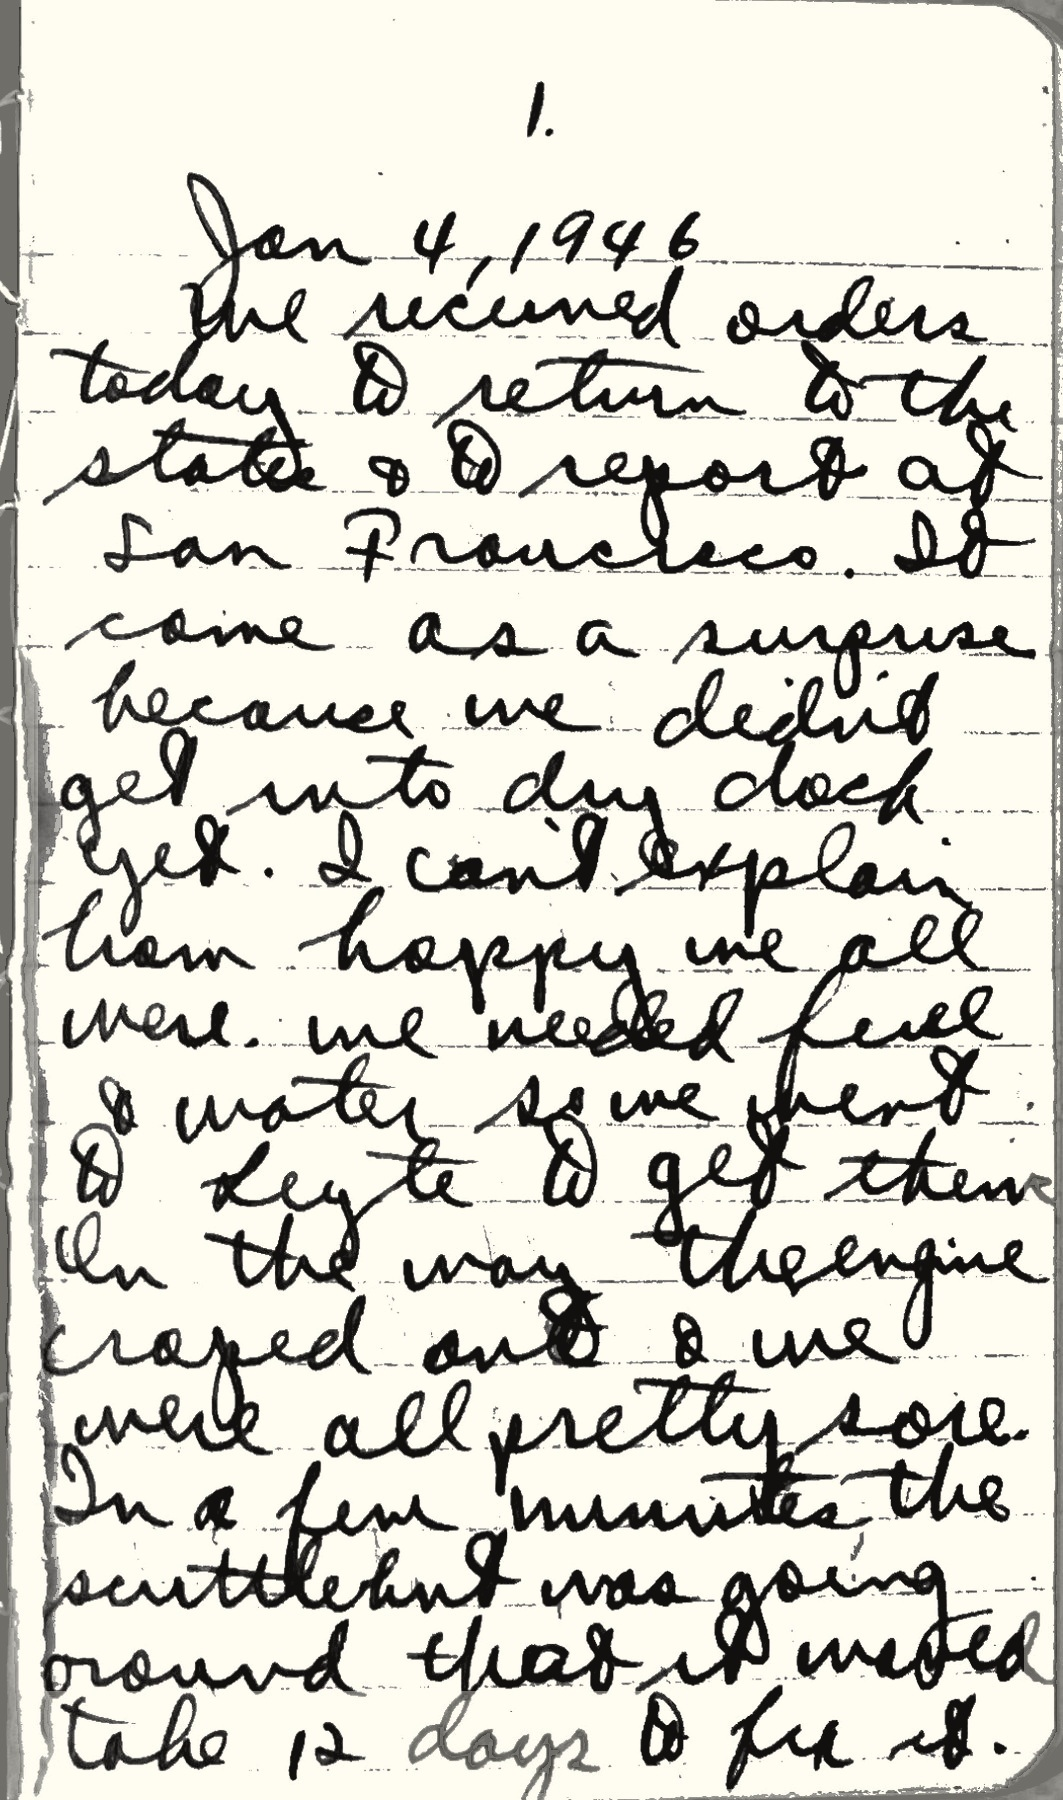
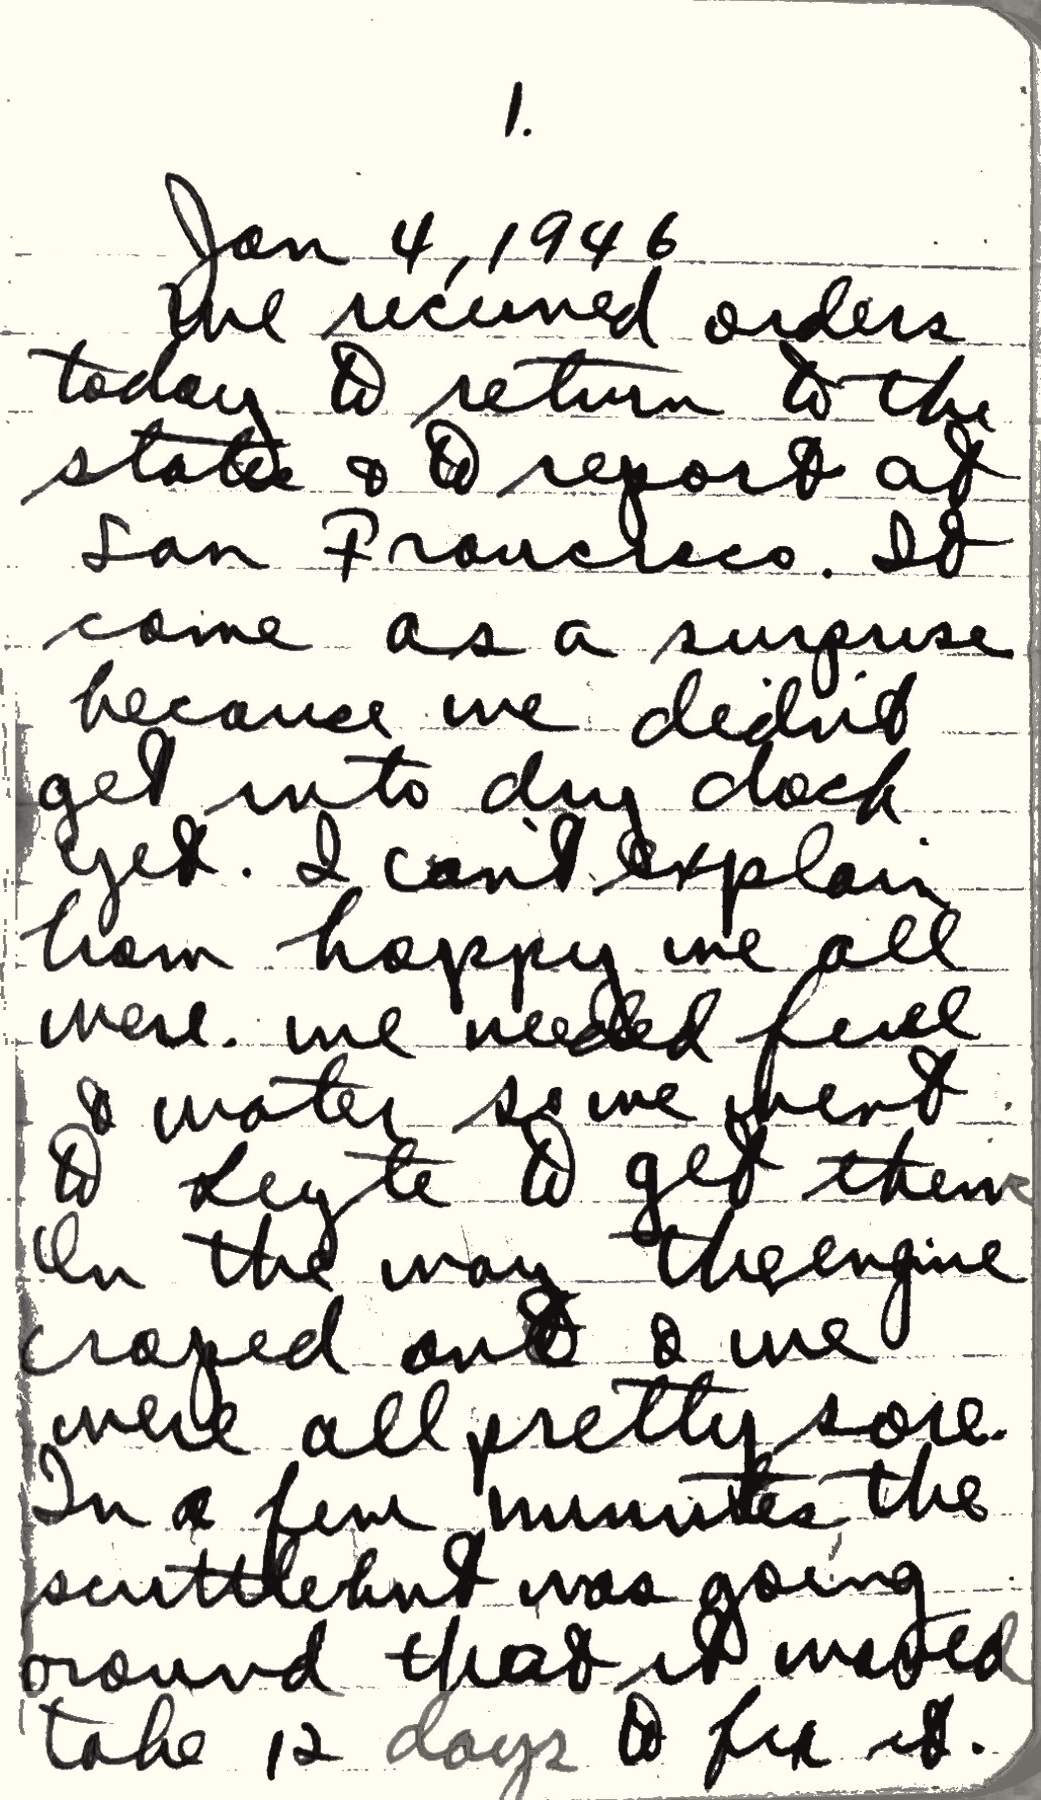
Refine targeted handwritten page crops

Changed region(s): [[0.0, 0.0, 0.9837, 1.0], [0.4918, 0.0311, 0.5226, 0.0933]]

diff --git a/docs/index.html b/docs/index.html
@@ -469,7 +469,7 @@
     <section class="column handwrittenColumn" aria-label="Page 01 handwritten page">
       
       <figure>
-        <img src="assets/pages_shadow_midpoint/page_02.jpg" alt="Handwritten diary Page 02" width="1063" height="1800" loading="lazy">
+        <img src="assets/pages_shadow_midpoint/page_02.jpg" alt="Handwritten diary Page 02" width="1041" height="1800" loading="lazy">
         
       </figure>
     </section>
@@ -705,7 +705,7 @@
     <section class="column handwrittenColumn" aria-label="Page 10 handwritten page">
       
       <figure>
-        <img src="assets/pages_shadow_midpoint/page_11.jpg" alt="Handwritten diary Page 11" width="1022" height="1800" loading="lazy">
+        <img src="assets/pages_shadow_midpoint/page_11.jpg" alt="Handwritten diary Page 11" width="860" height="1800" loading="lazy">
         
       </figure>
     </section>
@@ -1832,7 +1832,7 @@
     <section class="column handwrittenColumn" aria-label="Page 50 handwritten page">
       
       <figure>
-        <img src="assets/pages_shadow_midpoint/page_51.jpg" alt="Handwritten diary Page 51" width="1158" height="1800" loading="lazy">
+        <img src="assets/pages_shadow_midpoint/page_51.jpg" alt="Handwritten diary Page 51" width="1002" height="1800" loading="lazy">
         
       </figure>
     </section>

diff --git a/scripts/clean-handwritten-shadows.py b/scripts/clean-handwritten-shadows.py
@@ -18,6 +18,40 @@ BOTTOM_CROP_HEIGHTS = {
     "page_47.jpg": 1775,
 }
 
+SPECIAL_POLYGONS = {
+    "page_12.jpg": [
+        [(0, 1740), (260, 1765), (520, 1782), (1023, 1778), (1023, 1800), (0, 1800)],
+    ],
+    "page_49.jpg": [
+        [(0, 0), (400, 0), (305, 155), (40, 280), (0, 255)],
+    ],
+    "page_51.jpg": [
+        [(0, 0), (180, 0), (125, 95), (0, 125)],
+        [(955, 0), (1158, 0), (1158, 160), (1010, 120)],
+    ],
+}
+
+SPECIAL_RECTS = {
+    "page_51.jpg": [
+        (996, 0, 1158, 1800),
+    ],
+}
+
+RIGHT_CROP_WIDTHS = {
+    "page_11.jpg": 860,
+    "page_51.jpg": 1002,
+}
+
+LEFT_CROP_WIDTHS = {
+    "page_02.jpg": 22,
+}
+
+PROTECTED_SHADOW_RECTS = {
+    "page_02.jpg": [
+        (0, 0, 58, 1800),
+    ],
+}
+
 
 def paper_color(image: np.ndarray) -> np.ndarray:
     gray = cv2.cvtColor(image, cv2.COLOR_RGB2GRAY)
@@ -56,6 +90,16 @@ def add_rect(mask: np.ndarray, box: tuple[int, int, int, int]) -> None:
 
 def add_poly(mask: np.ndarray, points: list[tuple[int, int]]) -> None:
     cv2.fillPoly(mask, [np.array(points, dtype=np.int32)], 255)
+
+
+def page_specific_mask(image: np.ndarray, filename: str) -> np.ndarray:
+    height, width = image.shape[:2]
+    mask = np.zeros((height, width), np.uint8)
+    for polygon in SPECIAL_POLYGONS.get(filename, []):
+        add_poly(mask, polygon)
+    for rect in SPECIAL_RECTS.get(filename, []):
+        add_rect(mask, rect)
+    return mask
 
 
 def artifact_mask(image: np.ndarray) -> np.ndarray:
@@ -135,6 +179,27 @@ def feather_fill(image: np.ndarray, mask: np.ndarray, color: np.ndarray) -> np.n
     return result
 
 
+def protected_shadow_fill(image: np.ndarray, rect: tuple[int, int, int, int]) -> np.ndarray:
+    height, width = image.shape[:2]
+    x1, y1, x2, y2 = rect
+    mask = np.zeros((height, width), np.uint8)
+    add_rect(mask, (x1, y1, x2, y2))
+    mask = cv2.GaussianBlur(mask, (0, 0), sigmaX=4, sigmaY=1)
+
+    gray = cv2.cvtColor(image, cv2.COLOR_RGB2GRAY)
+    ink = (gray < 122).astype(np.uint8) * 255
+    ink = cv2.dilate(ink, np.ones((3, 3), np.uint8), iterations=1)
+    mask[ink > 0] = 0
+
+    alpha = (mask.astype(np.float32) / 255)[:, :, None]
+    color = paper_color(image)
+    return np.clip(
+        image.astype(np.float32) * (1 - alpha) + color[None, None, :].astype(np.float32) * alpha,
+        0,
+        255,
+    ).astype(np.uint8)
+
+
 def clean_image(path: Path) -> Image.Image:
     image = np.array(Image.open(path).convert("RGB"))
     mask = artifact_mask(image)
@@ -173,9 +238,22 @@ def main() -> None:
             original_array = np.asarray(original, dtype=np.float32)
             blended = original_array * (1 - args.clean_strength) + cleaned_array * args.clean_strength
             cleaned = Image.fromarray(np.clip(blended, 0, 255).astype(np.uint8))
+        special_mask = page_specific_mask(np.asarray(cleaned), source_file.name)
+        if np.any(special_mask):
+            cleaned = Image.fromarray(feather_fill(np.asarray(cleaned), special_mask, paper_color(np.asarray(cleaned))))
         crop_height = BOTTOM_CROP_HEIGHTS.get(source_file.name)
         if crop_height:
             cleaned = cleaned.crop((0, 0, cleaned.width, crop_height))
+        crop_width = RIGHT_CROP_WIDTHS.get(source_file.name)
+        if crop_width:
+            cleaned = cleaned.crop((0, 0, crop_width, cleaned.height))
+        left_crop = LEFT_CROP_WIDTHS.get(source_file.name)
+        if left_crop:
+            cleaned = cleaned.crop((left_crop, 0, cleaned.width, cleaned.height))
+        cleaned_array = np.asarray(cleaned)
+        for rect in PROTECTED_SHADOW_RECTS.get(source_file.name, []):
+            cleaned_array = protected_shadow_fill(cleaned_array, rect)
+        cleaned = Image.fromarray(cleaned_array)
         cleaned.save(output_dir / source_file.name, quality=94, optimize=True)
         print(f"cleaned {source_file.name}")
 
